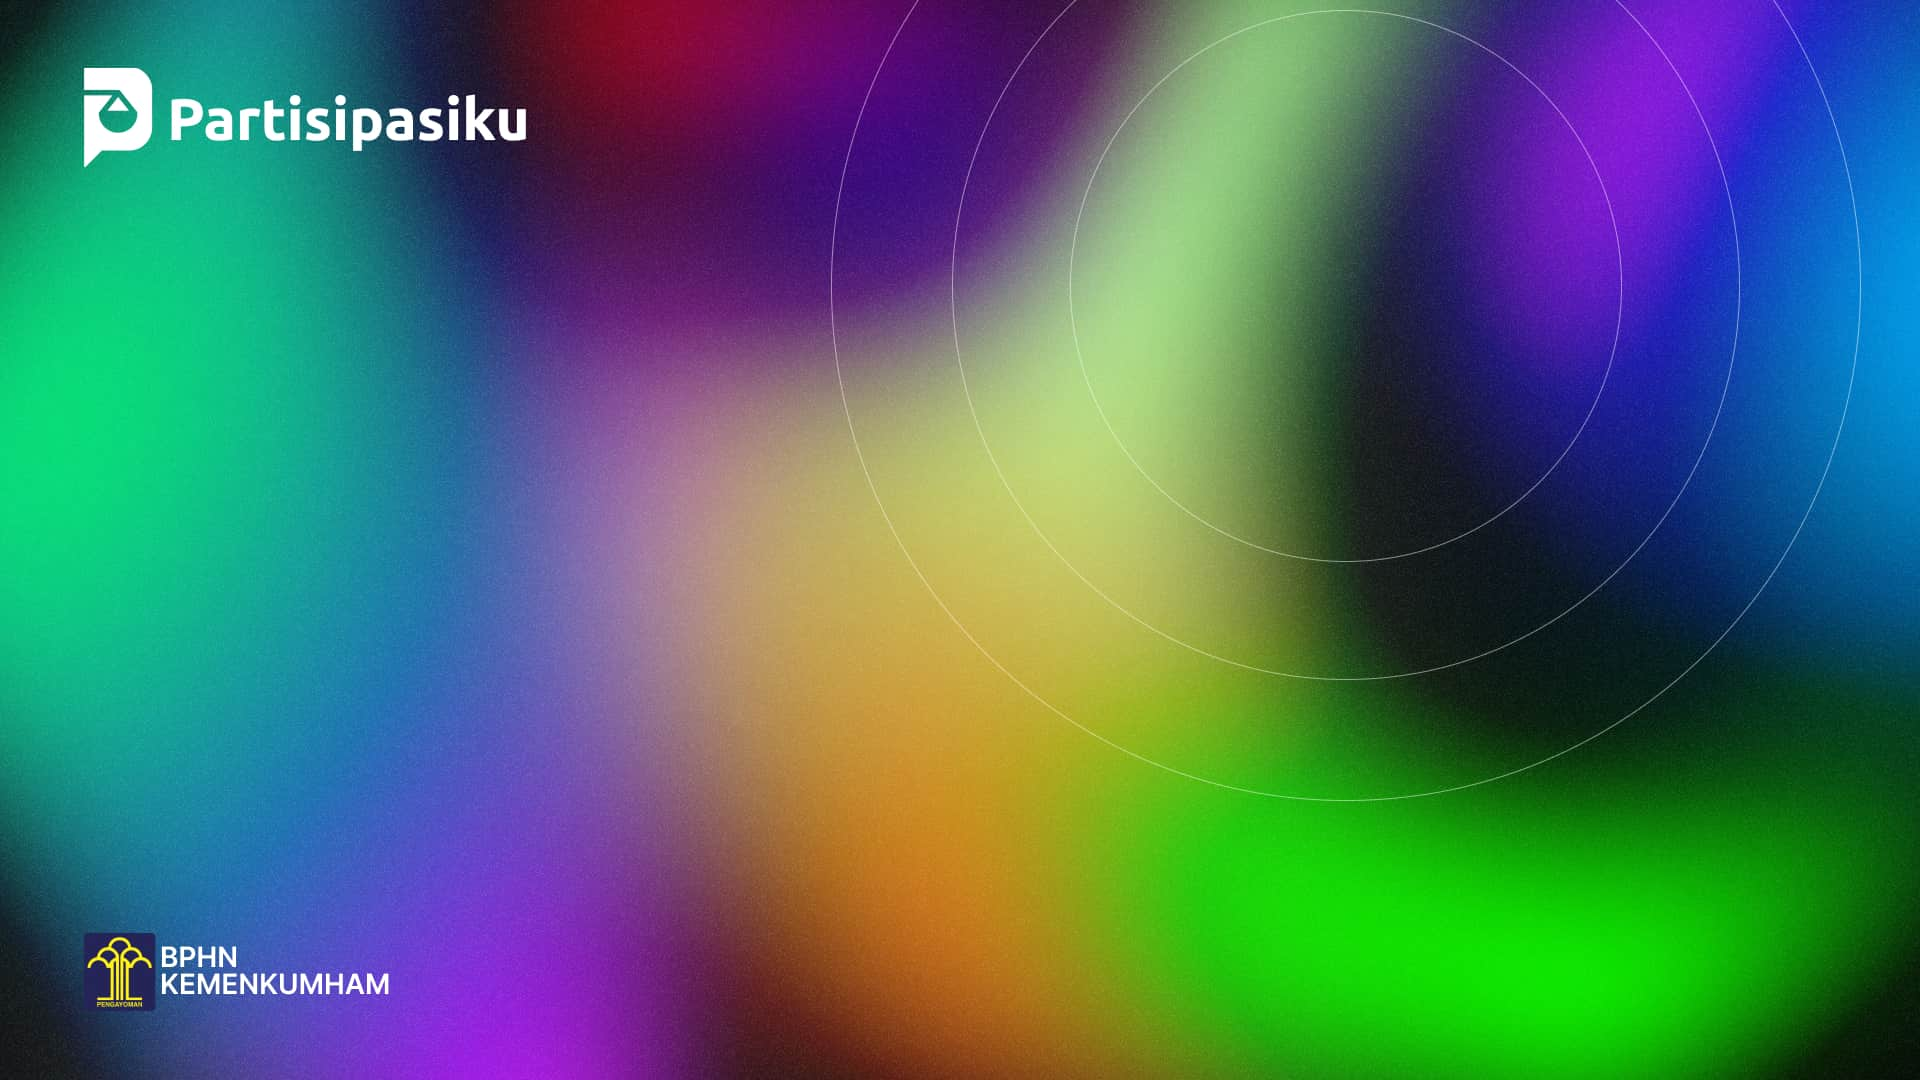
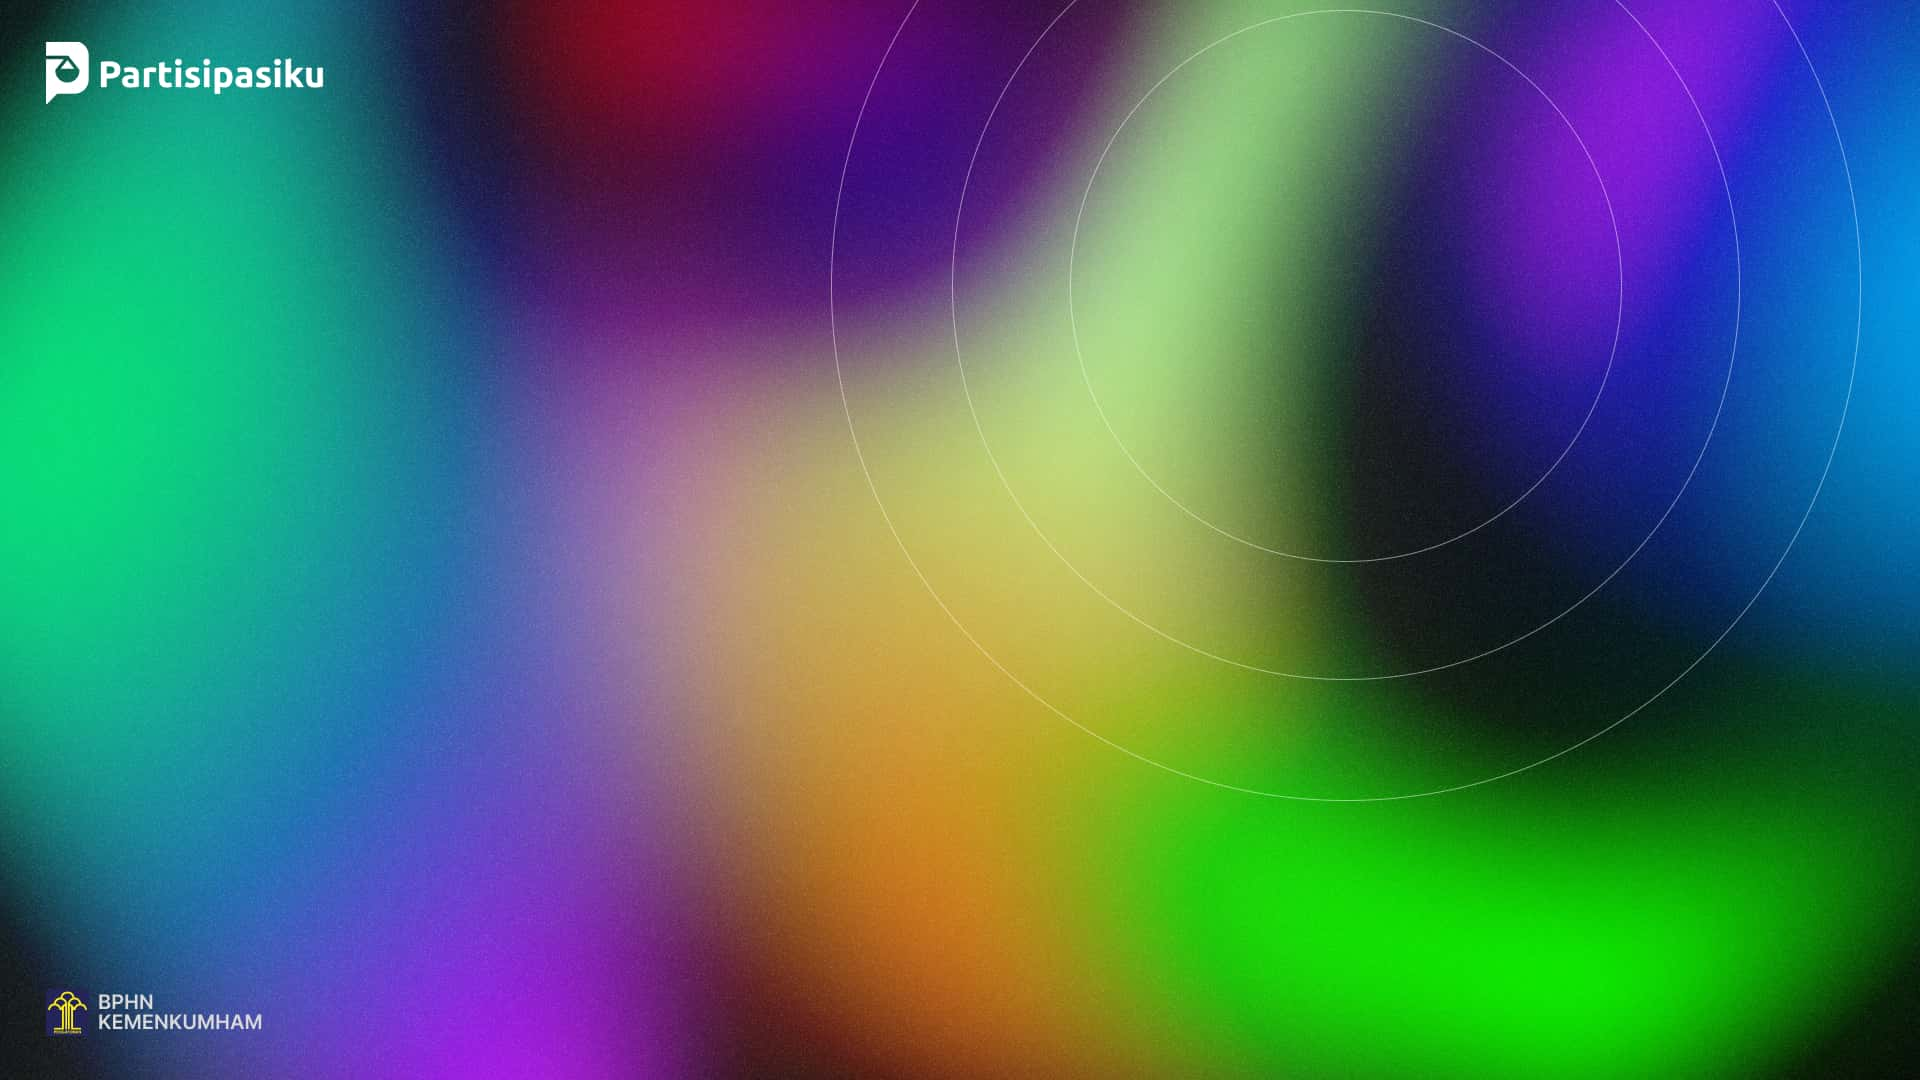
fix: og image

Changed region(s): [[0.0, 0.0306, 0.2812, 0.1528], [0.0, 0.8556, 0.2188, 0.9778]]

diff --git a/src/pages/api/og.tsx b/src/pages/api/og.tsx
@@ -13,7 +13,6 @@ const font = fetch(
 export default async function handler(req: NextRequest) {
   const { searchParams } = req.nextUrl;
   const topicTitle = searchParams.get('title');
-  const category = searchParams.get('category');
   const fontData = await font;
 
   return new ImageResponse(
@@ -29,25 +28,6 @@ export default async function handler(req: NextRequest) {
           backgroundImage: `url(${AppInfo.url}/og-bg.jpg)`,
         }}
       >
-        {category && (
-          <div
-            style={{
-              marginLeft: 190,
-              marginRight: 190,
-              display: 'flex',
-              fontSize: 60,
-              fontFamily: 'Kaisei Tokumin',
-              marginBottom: 20,
-              letterSpacing: '-0.05em',
-              fontStyle: 'normal',
-              color: 'white',
-              lineHeight: '40px',
-              whiteSpace: 'pre-wrap',
-            }}
-          >
-            #{category}
-          </div>
-        )}
         <div
           style={{
             marginLeft: 190,

diff --git a/src/components/seo/Seo.tsx b/src/components/seo/Seo.tsx
@@ -12,8 +12,11 @@ export default function Seo(seoProps: SeoProps): ReactElement {
   const title =
     seoProps.pageTitle != null ? `${seoProps.pageTitle}` : AppInfo.siteName;
   const description = seoProps.description ?? AppInfo.siteDescription;
-  const url = seoProps.url ?? AppInfo.url;
-
+  const url =
+    seoProps.url === null
+      ? `${AppInfo.url}/${seoProps.url}`
+      : `${AppInfo.url}${router.asPath}`;
+  const cannonicalUrl = `${AppInfo.url}/${seoProps.url && seoProps.url}`;
   const ogImage = seoProps.image ?? `${AppInfo.url}/api/og?title=${title}`;
 
   return (
@@ -29,11 +32,11 @@ export default function Seo(seoProps: SeoProps): ReactElement {
       />
       <meta
         property='og:url'
-        content={`${url}${router.asPath}`}
+        content={`${url}`}
       />
       <link
         rel='canonical'
-        href={`${AppInfo.url}/${seoProps.url && seoProps.url}`}
+        href={cannonicalUrl}
       />
       {/* Open Graph */}
       <meta

diff --git a/src/components/layouts/IssueLayout.tsx b/src/components/layouts/IssueLayout.tsx
@@ -51,7 +51,7 @@ const IssueLayout: FunctionComponent<IssueProps> = ({
         title={title}
         type='article'
         url={`diskusi/${slug}`}
-        image={`${AppInfo.url}/api/og?title=${title}&category=${topic}`}
+        image={`${AppInfo.url}/api/og?title=${title}`}
       />
       <div className='flex flex-col '>
         <div className='flex flex-col gap-5 w-full lg:w-2/3 mx-auto'>
